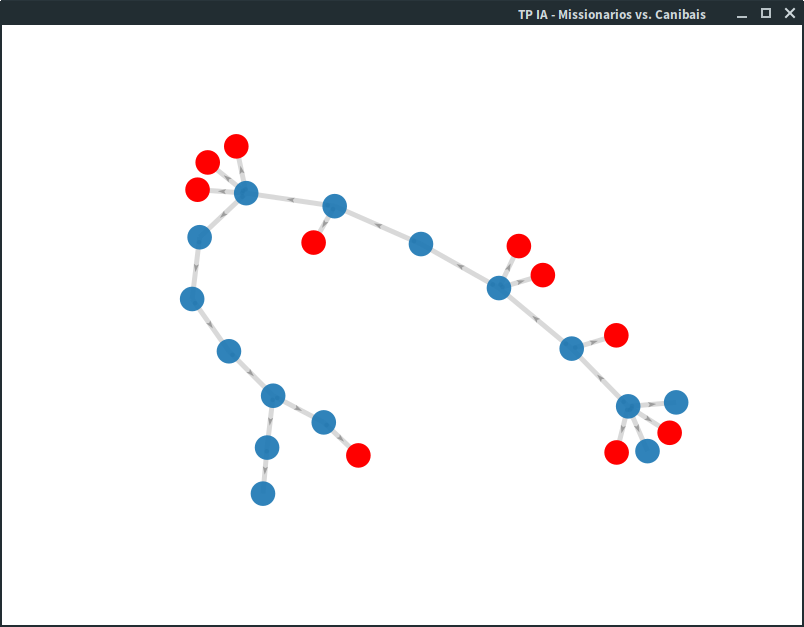
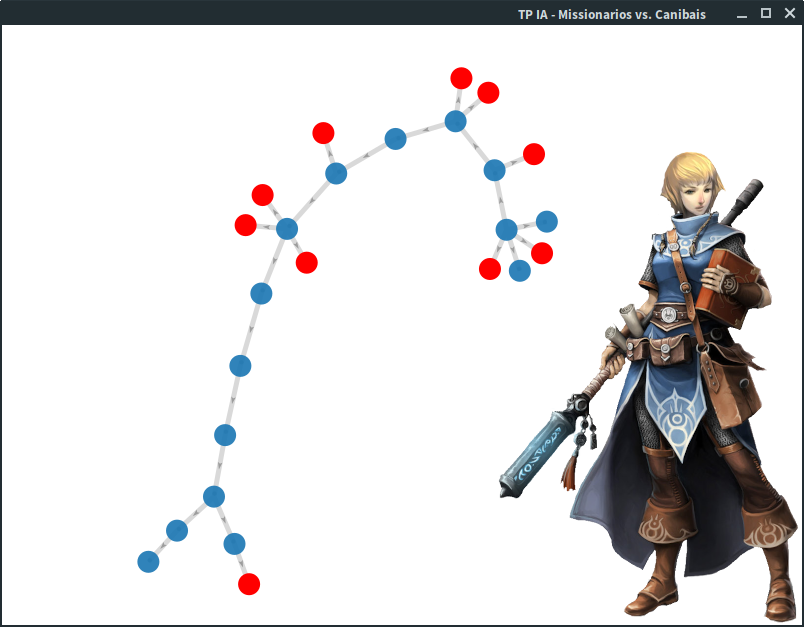
front upt

diff --git a/resources/home.html b/resources/home.html
@@ -1,13 +1,30 @@
 <head>
-  <style> body { margin: 0; } </style>
-
+  <style> 
+    body { margin: 0; }
+    #content {
+      position: relative;
+    }
+    #content img {
+      position: absolute;
+      top: 120px;
+      right: 0px;
+    }
+  </style>
   <script src="force-graph.min.js"></script>
 </head>
 
 <body>
-  <div id="graph"></div>
 
+  <div id="content">
+    <img src="cleric.png" class="ribbon"/>
+  </div>
+
+  <div id="graph"></div>
 
   <script src="graph.js"></script>
   <script src="graph_core.js"></script>
 </body>
+
+
+
+
